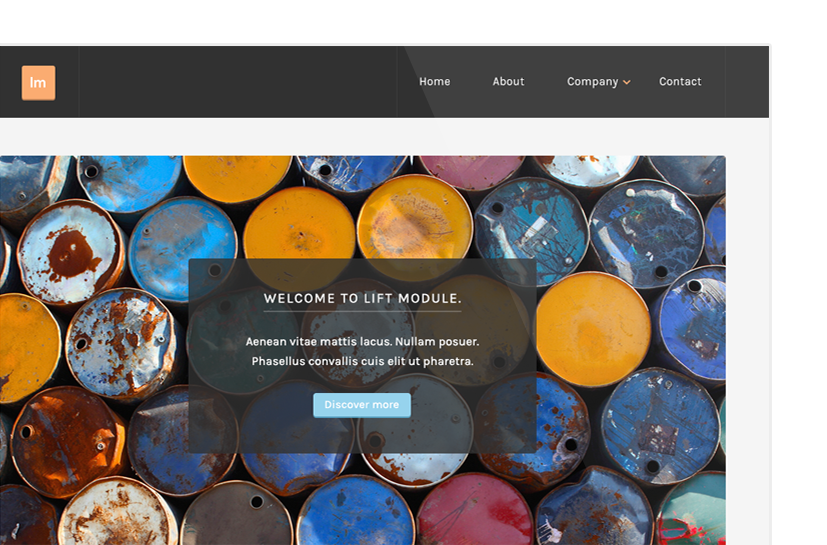
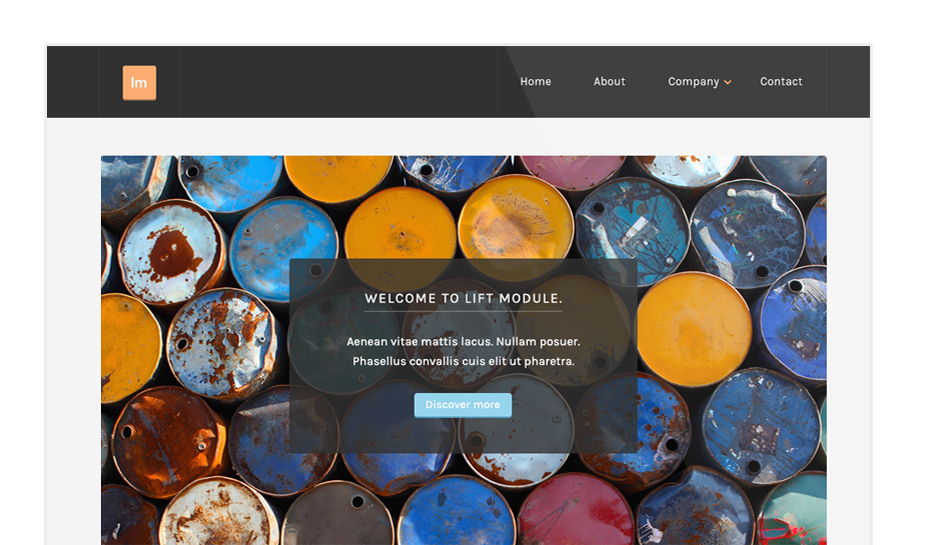
Updated responsive styles on partners

diff --git a/stylesheet.less b/stylesheet.less
@@ -701,6 +701,13 @@ section.template-slideshow {
 				-webkit-border-radius: 50%;
 				-moz-border-radius: 50%;
 				border-radius: 50%;
+				@media @mobileSml {
+					display: none;
+				}
+			}
+			@media @mobileSml {
+				height: 10px;
+				padding: 0 8px 0;
 			}
 		}
 	}
@@ -719,6 +726,9 @@ section.template-slideshow {
 			}
 			@media @mobile {
 				height: 230px;
+			}
+			@media @mobileSml {
+				height: 158px;
 			}
 		}	
 
@@ -815,7 +825,7 @@ section.developer-community {
 			}
 
 			li {
-				padding: 0 0 2em 4em;
+				padding: 0 0 2em 5.5em;
 				.box-sizing;
 
 				@media @tablet {

diff --git a/css/partners.less b/css/partners.less
@@ -328,7 +328,7 @@ section.why-basekit {
 		}
 
 
-		&.columns {
+		.columns {
 
 			&.span-30-31-30 {
 
@@ -546,7 +546,7 @@ section.device-switcher {
 
 		img.tablet-wht {
 			position: relative;
-			left: -368px;
+			left: -468px;
 			bottom: -4px;
 			max-width: inherit;
 			@media @tablet {
